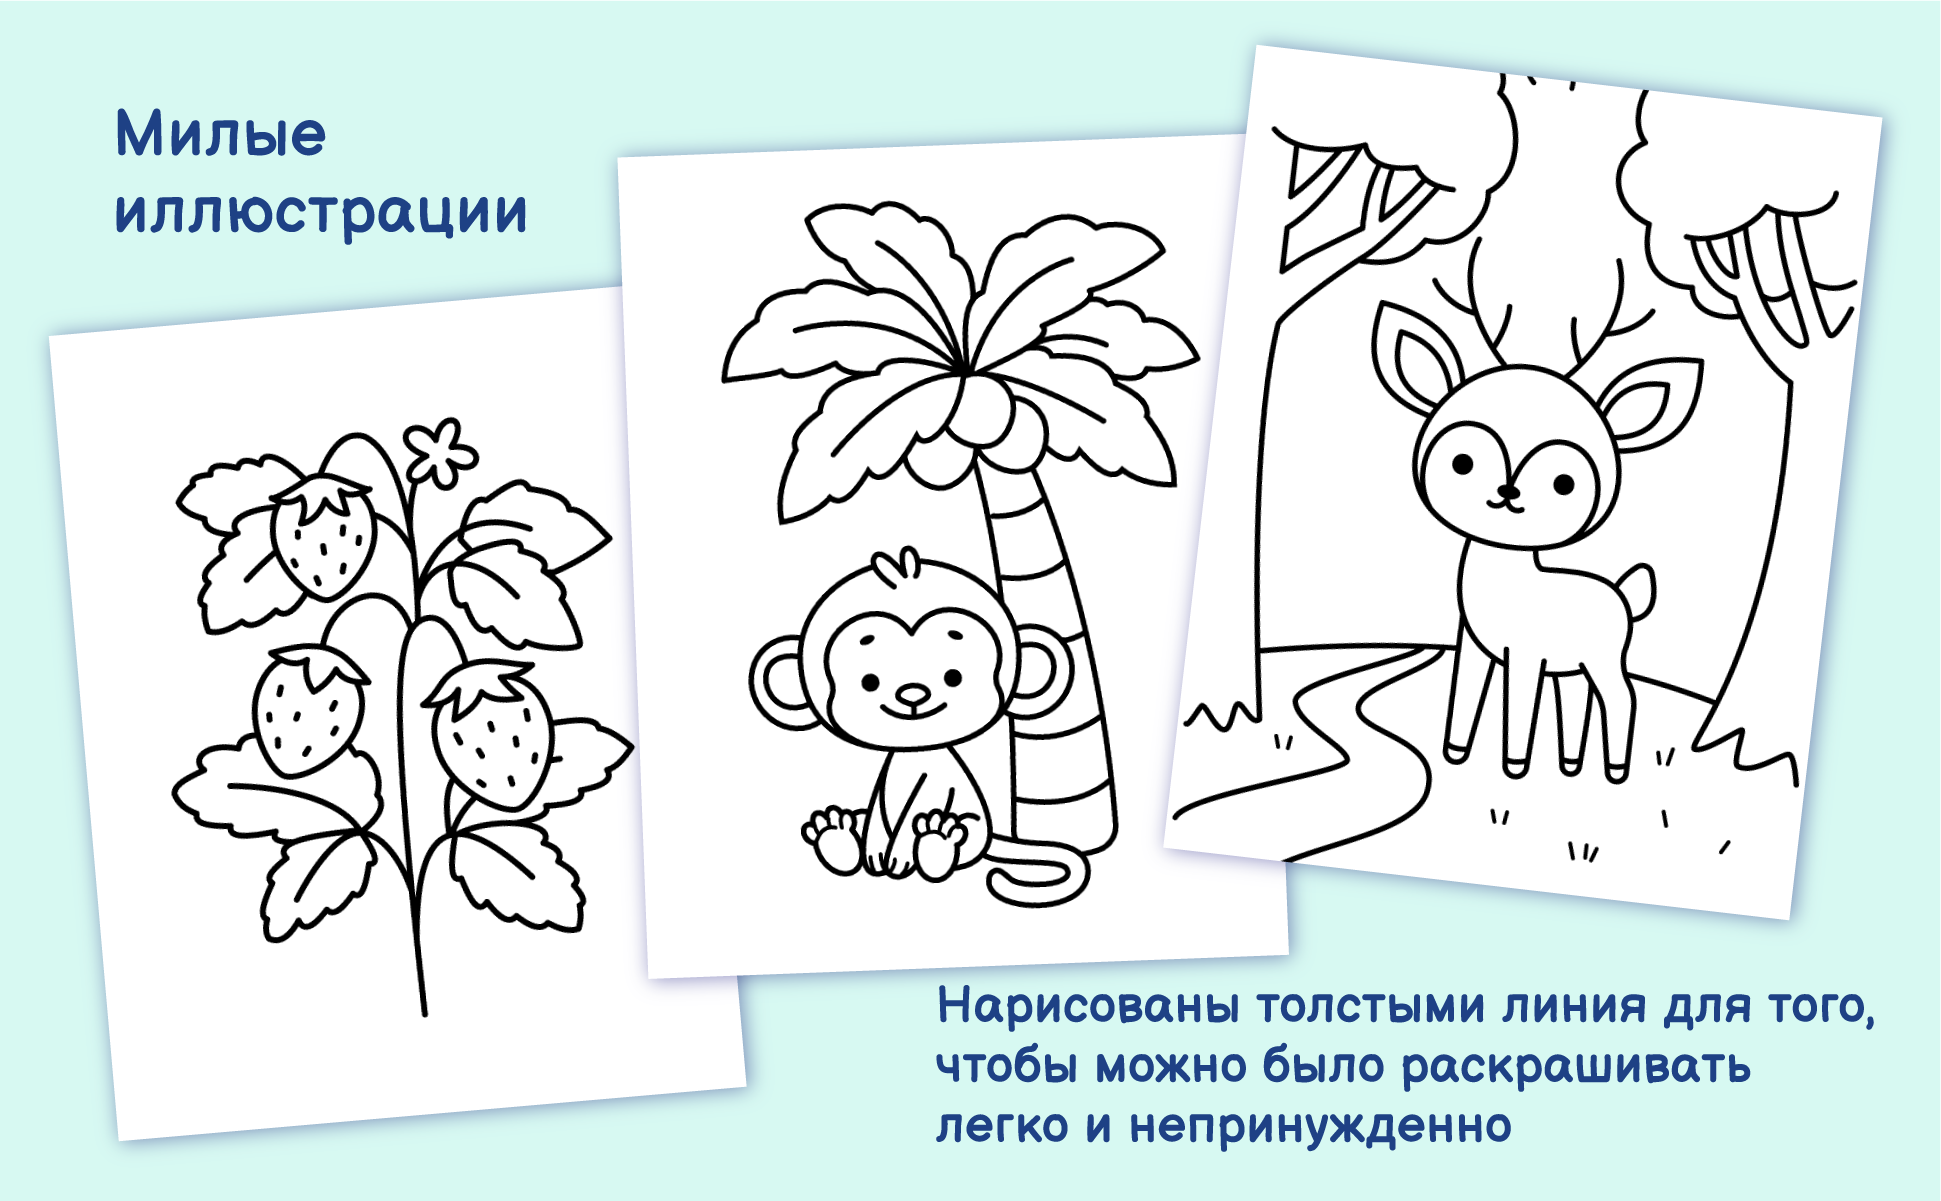
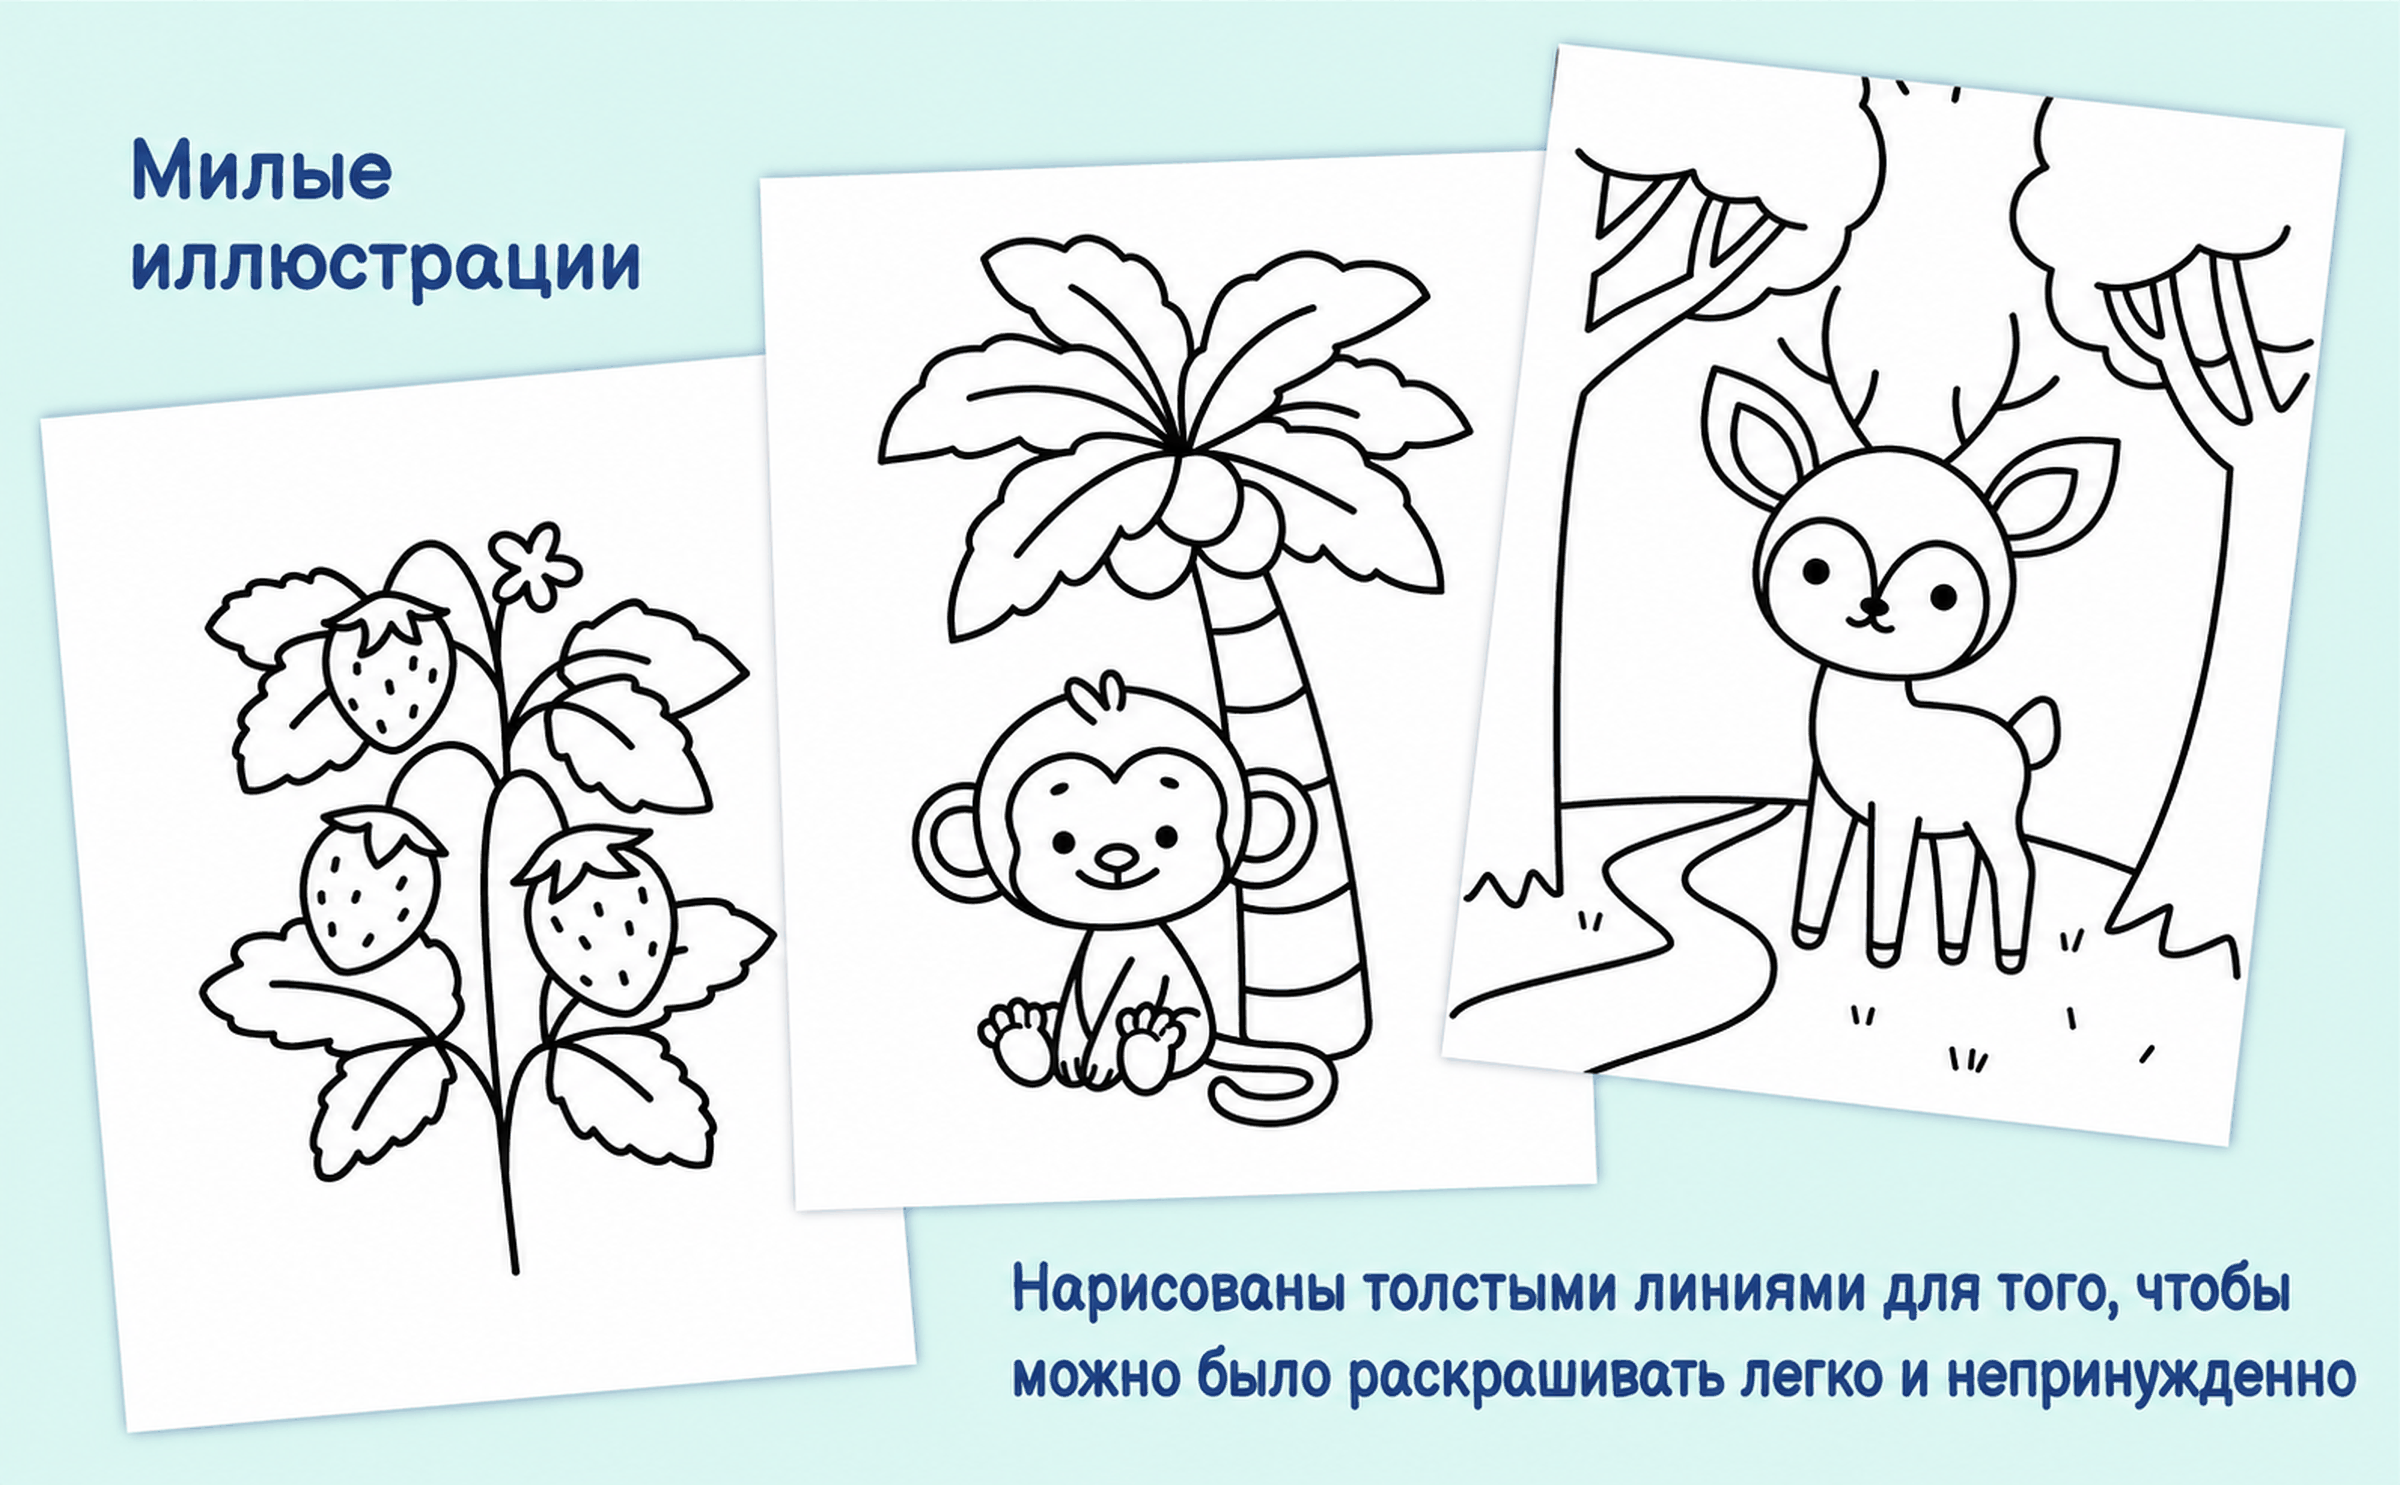
Add files via upload

Changed region(s): [[0.3091, 0.0308, 0.9892, 0.7702], [0.0, 0.2773, 0.9892, 0.9858], [0.0309, 0.0924, 0.2782, 0.2157]]

diff --git a/src/data/books.ts b/src/data/books.ts
@@ -4058,8 +4058,8 @@ export const books: Book[] = [
     banners: [
       {
         file: "/art/take-a-break-animals-ru-lines.png",
-        w: 1941,
-        h: 1201,
+        w: 2400,
+        h: 1485,
         alt: {
           ru: "Три страницы из книги: клубника, обезьянка под пальмой и олень у ручья, нарисованные толстой линией",
         },
@@ -4149,8 +4149,8 @@ export const books: Book[] = [
     banners: [
       {
         file: "/art/take-a-break-ocean-ru-lines.png",
-        w: 1941,
-        h: 1201,
+        w: 2400,
+        h: 1485,
         alt: {
           ru: "Три страницы из книги: подводная лодка среди водорослей, ракушки со звездой и рыбка с большими плавниками",
         },
@@ -4239,8 +4239,8 @@ export const books: Book[] = [
     banners: [
       {
         file: "/art/take-a-break-food-ru-lines.png",
-        w: 1941,
-        h: 1201,
+        w: 2400,
+        h: 1485,
         alt: {
           ru: "Три страницы из книги: хот-дог, печенье разной формы и арбуз с отрезанным ломтем",
         },
